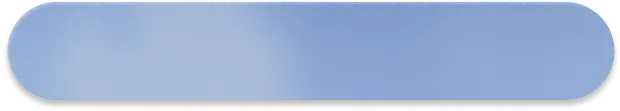
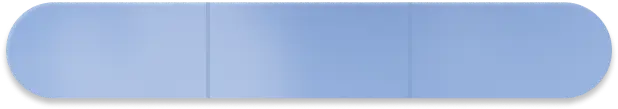
changing links for apple and new socials

diff --git a/src/app/page.tsx b/src/app/page.tsx
@@ -7,6 +7,11 @@ import daze from "../images/daze.webp";
 import button1 from '../images/button1.webp'
 import button2 from '../images/button2.webp'
 import button3 from '../images/button3.webp'
+import apple from '../images/apple.svg'
+import android from '../images/android.svg'
+import ig from '../images/ig.svg'
+import discord from '../images/discord.svg'
+import tiktok from '../images/tiktok.svg'
 import { Audio } from './sound'
 import { Video } from './video'
 import './style/style.scss'
@@ -84,10 +89,20 @@ export default function Home() {
           {/* buttons  */}
       <div className="z-10 flex flex-col gap-3 justify-between mt-8" >
 
-        <Link href="https://st4slyblfx3.typeform.com/to/DK30NHwZ"> 
+        <Link href="https://apps.apple.com/us/app/daze-freeform-chat/id6497405419"> 
         <div className="relative flex items-center justify-center">
 
-          <p className="absolute mx-auto -mt-1 text-slate-100 text-lg">Get on the waitlist</p>
+      
+          <div className="flex flex-row gap-3 items-end absolute mx-auto ">
+          <Image
+                    src={apple}
+                    width={23}
+                    alt="button 1"
+                    priority={true}
+                  />
+          <p className="-mt-1 text-white text-lg">Download for iPhone</p>
+        </div>
+    
            <Image
                 src={button1}
                 width={315}
@@ -98,11 +113,20 @@ export default function Home() {
               />
         </div>
         </Link>
-        <Link href="https://www.instagram.com/daze.chat/">
+
+        <Link href="https://st4slyblfx3.typeform.com/to/DK30NHwZ?typeform-source=daze.chat">
           
         <div className="relative flex items-center justify-center">
 
-        <p className="absolute mx-auto -mt-1 text-slate-100 text-lg">Follow us on Instagram</p>
+        <div className="flex flex-row gap-3 items-end absolute mx-auto ">
+        <Image
+                    src={android}
+                    width={23}
+                    alt="button 1"
+                    priority={true}
+                  />
+        <p className="-mt-1 text-white text-lg">Download for Android</p>
+        </div>
         <Image
               src={button2}
               width={315}
@@ -113,22 +137,56 @@ export default function Home() {
             />
         </div>
         </Link> 
-        <Link href="https://discord.gg/Z4dWvVARxh">
+
+        {/* 3 buttons for socials */}
+    <div className="flex flex-row">
+        
         <div className="relative flex items-center justify-center">
 
-          <p className="absolute mx-auto -mt-1 text-slate-100 text-lg">Join our Discord</p>
+        <div className="flex z-10 flex-row self-center gap-16 absolute mx-auto ">
+        <Link href="https://www.instagram.com/daze.chat/">
+
+               <Image
+                    src={ig}
+                    width={25}
+                    alt="ig button"
+                    priority={true}
+                  />
+
+               
+            </Link>
+          <Link href="https://discord.com/invite/Z4dWvVARxh">
+                <Image
+                    src={discord}
+                    width={25}
+                    alt="discord button"
+                    priority={true}
+                  />
+            </Link>
+            <Link href="https://www.tiktok.com/@daze.chat">
+                <Image
+                    src={tiktok}
+                    width={25}
+                    alt="tiktok button"
+                    priority={true}
+                  />
+            </Link> 
+          </div>
+
           <Image
                 src={button3}
-                width={310}
+                width={315}
                 style={{mixBlendMode: 'soft-light'}}
                 alt="button 1"
                 priority={true}
                 className="my-0 py-0 mix-blend-soft-light opacity-70"
               />
+
           </div>
             {/* <div className="bg-[#4E7BC9] text-slate-100 bg-opacity-60 px-12 py-3 rounded-3xl shadow-lg flex justify-center cursor-pointer">
             </div> */}
-      </Link>
+      </div>
+
       </div>
         
     </div>
